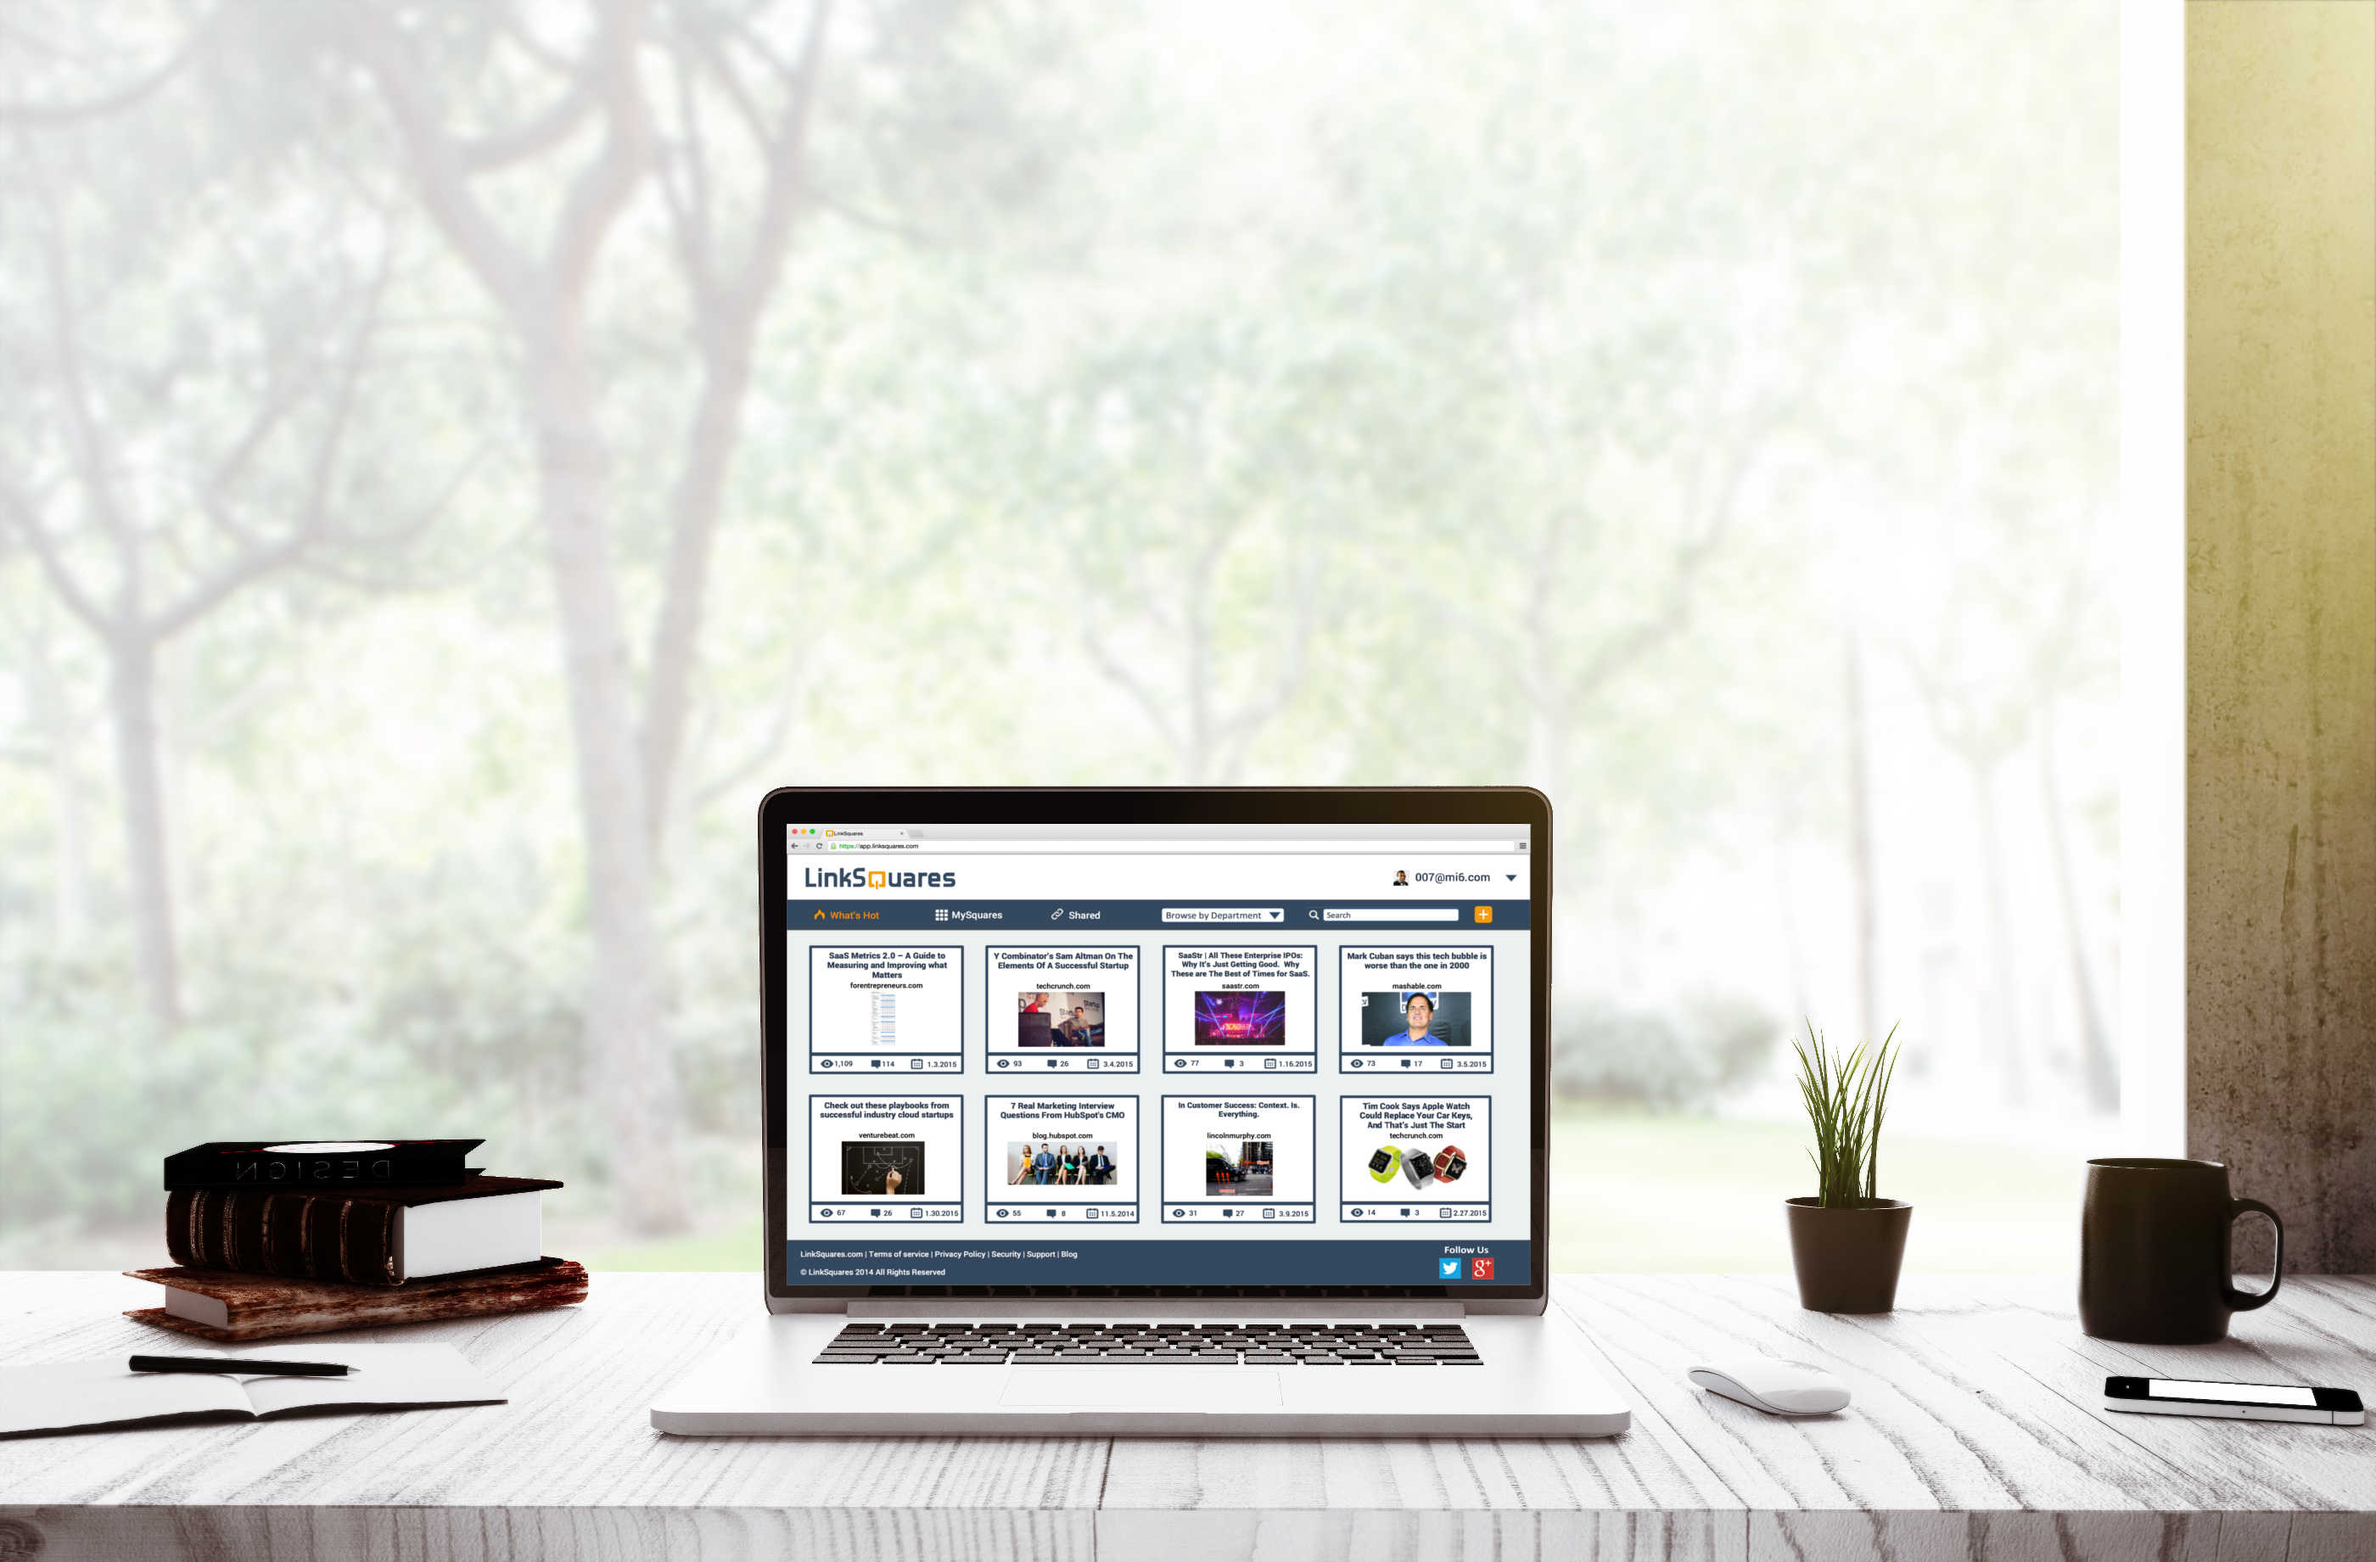
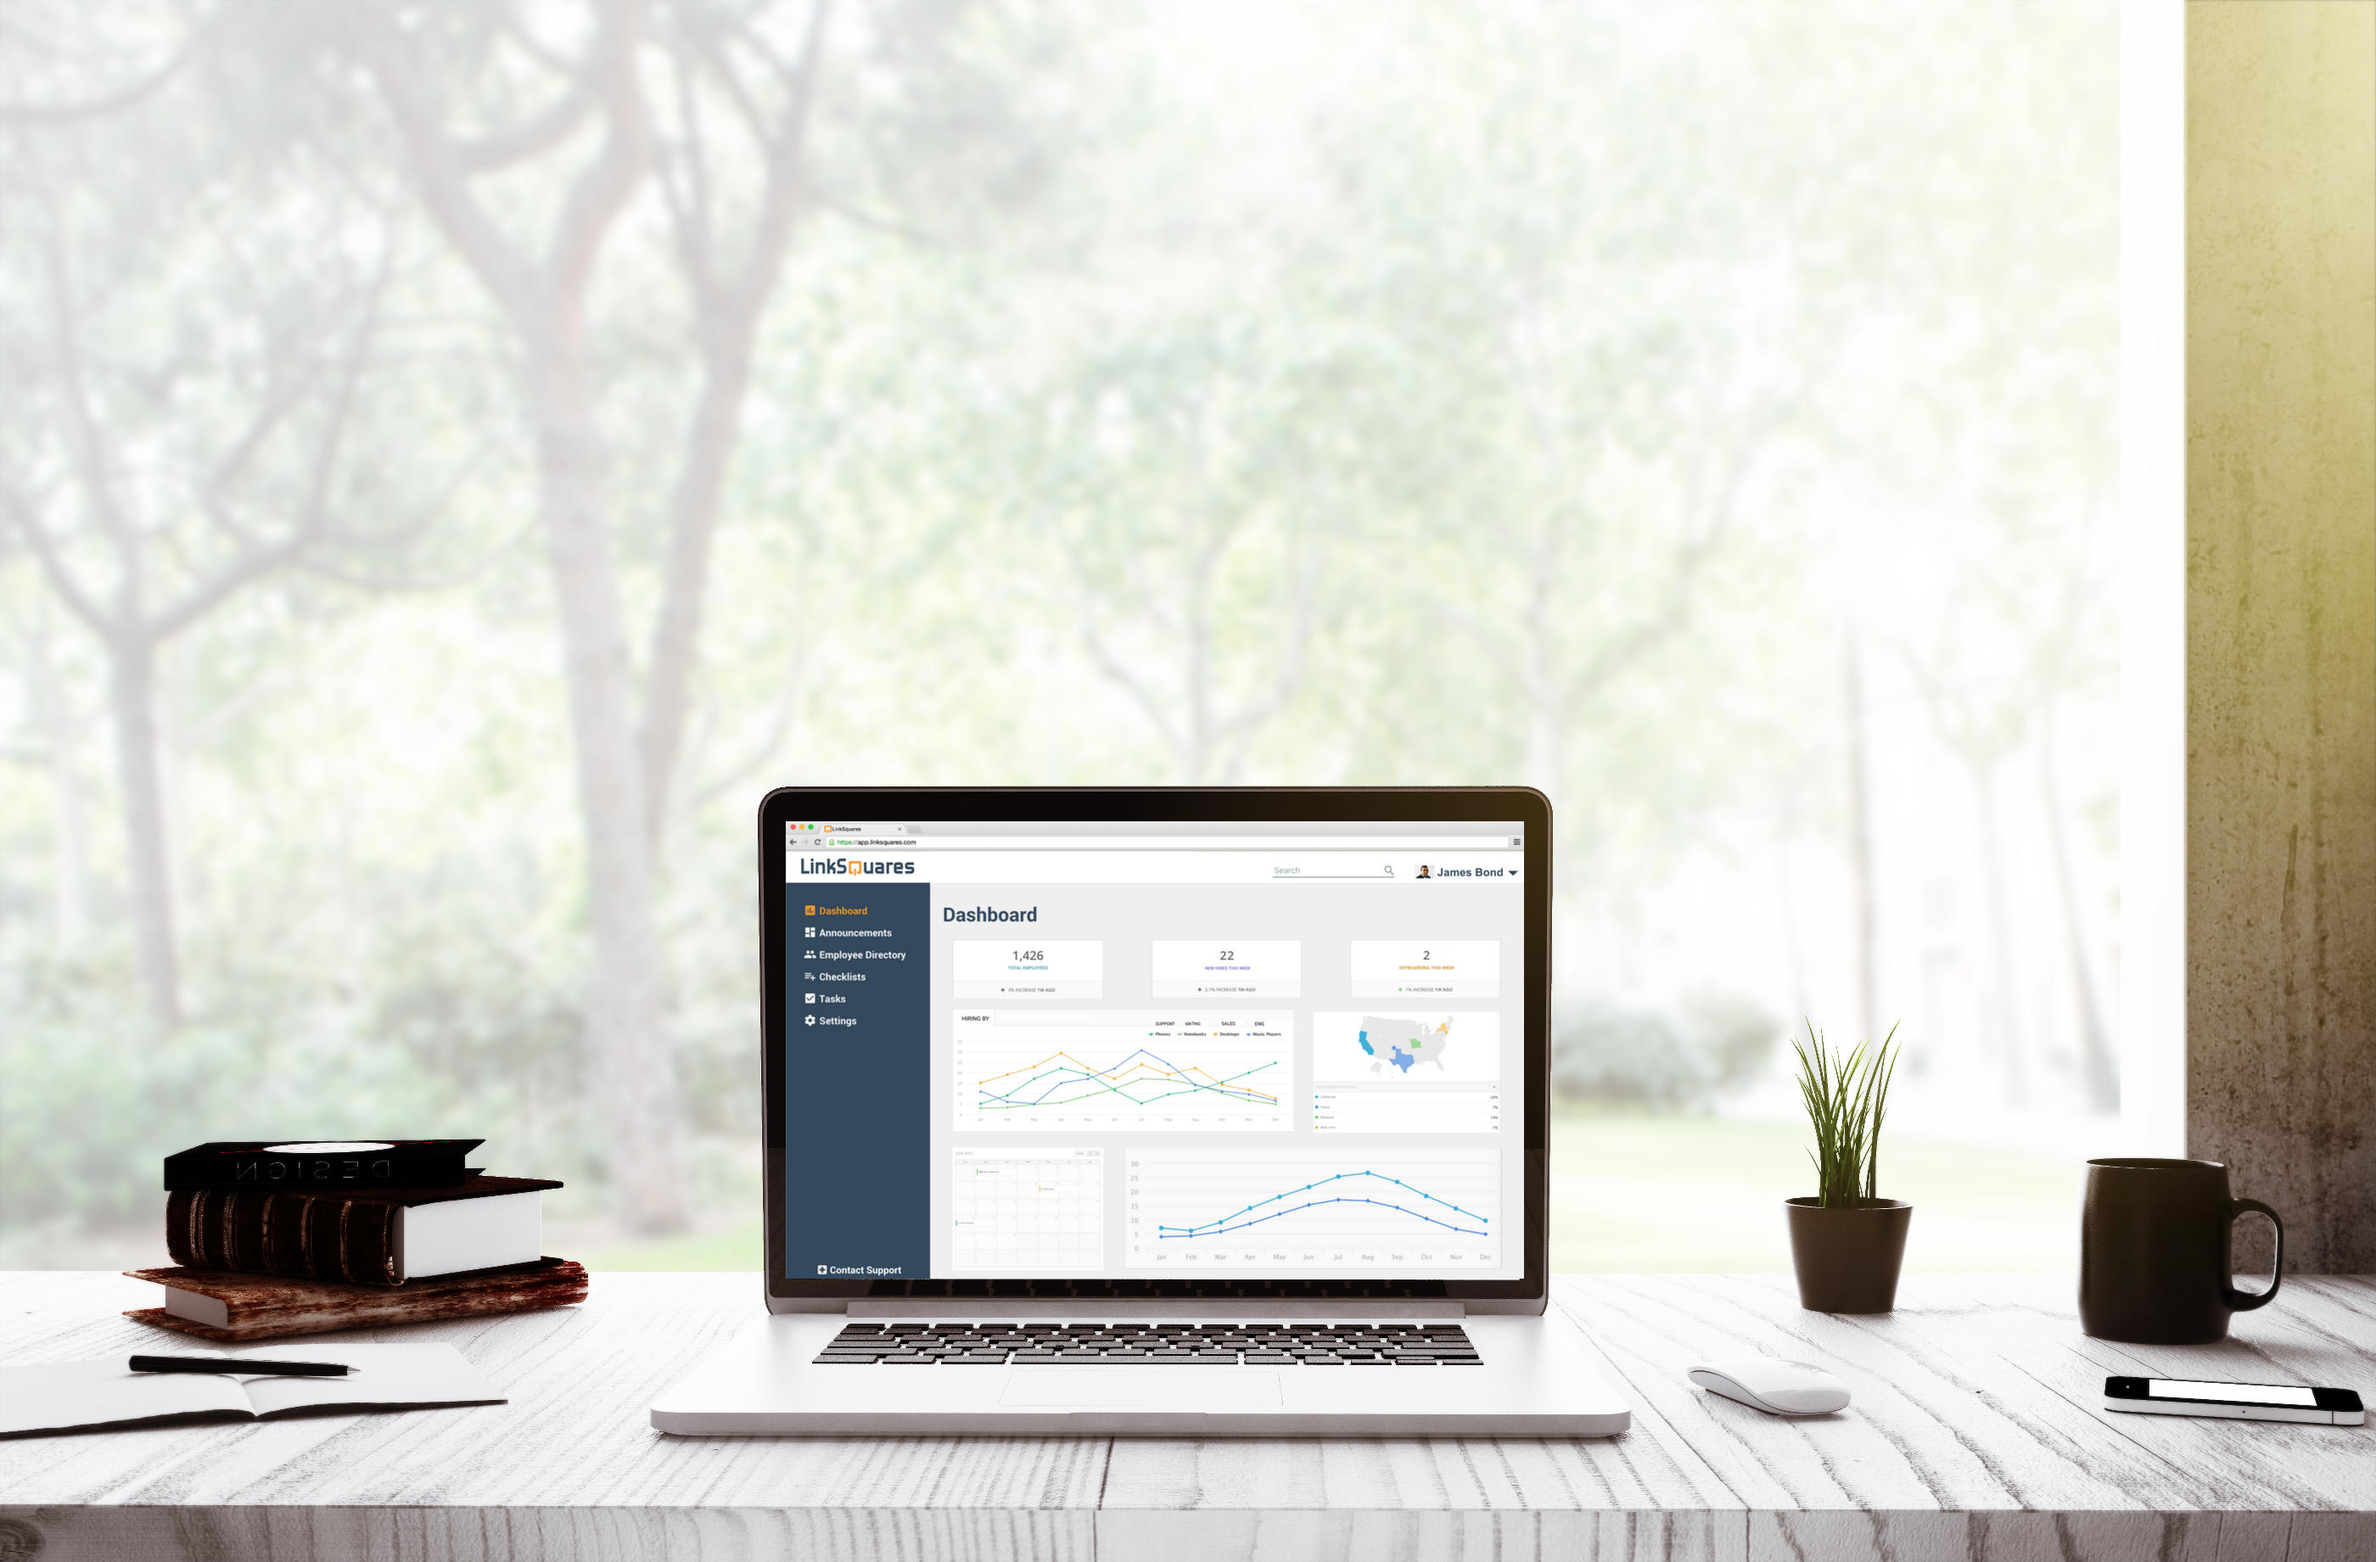
Updated site with new content and images

Changed region(s): [[0.3107, 0.5263, 0.6525, 0.836], [0.7457, 0.6812, 0.7768, 0.7121]]

diff --git a/public/css/landing-page.css b/public/css/landing-page.css
@@ -348,7 +348,7 @@ a.footer{
         /*color: #f8f8f8;*/
         background: url(../img/hero_image_mobile.jpg) no-repeat center center;
         background-size: cover;
-        height: 950px;
+        height: 1050px;
         
     }   
 
